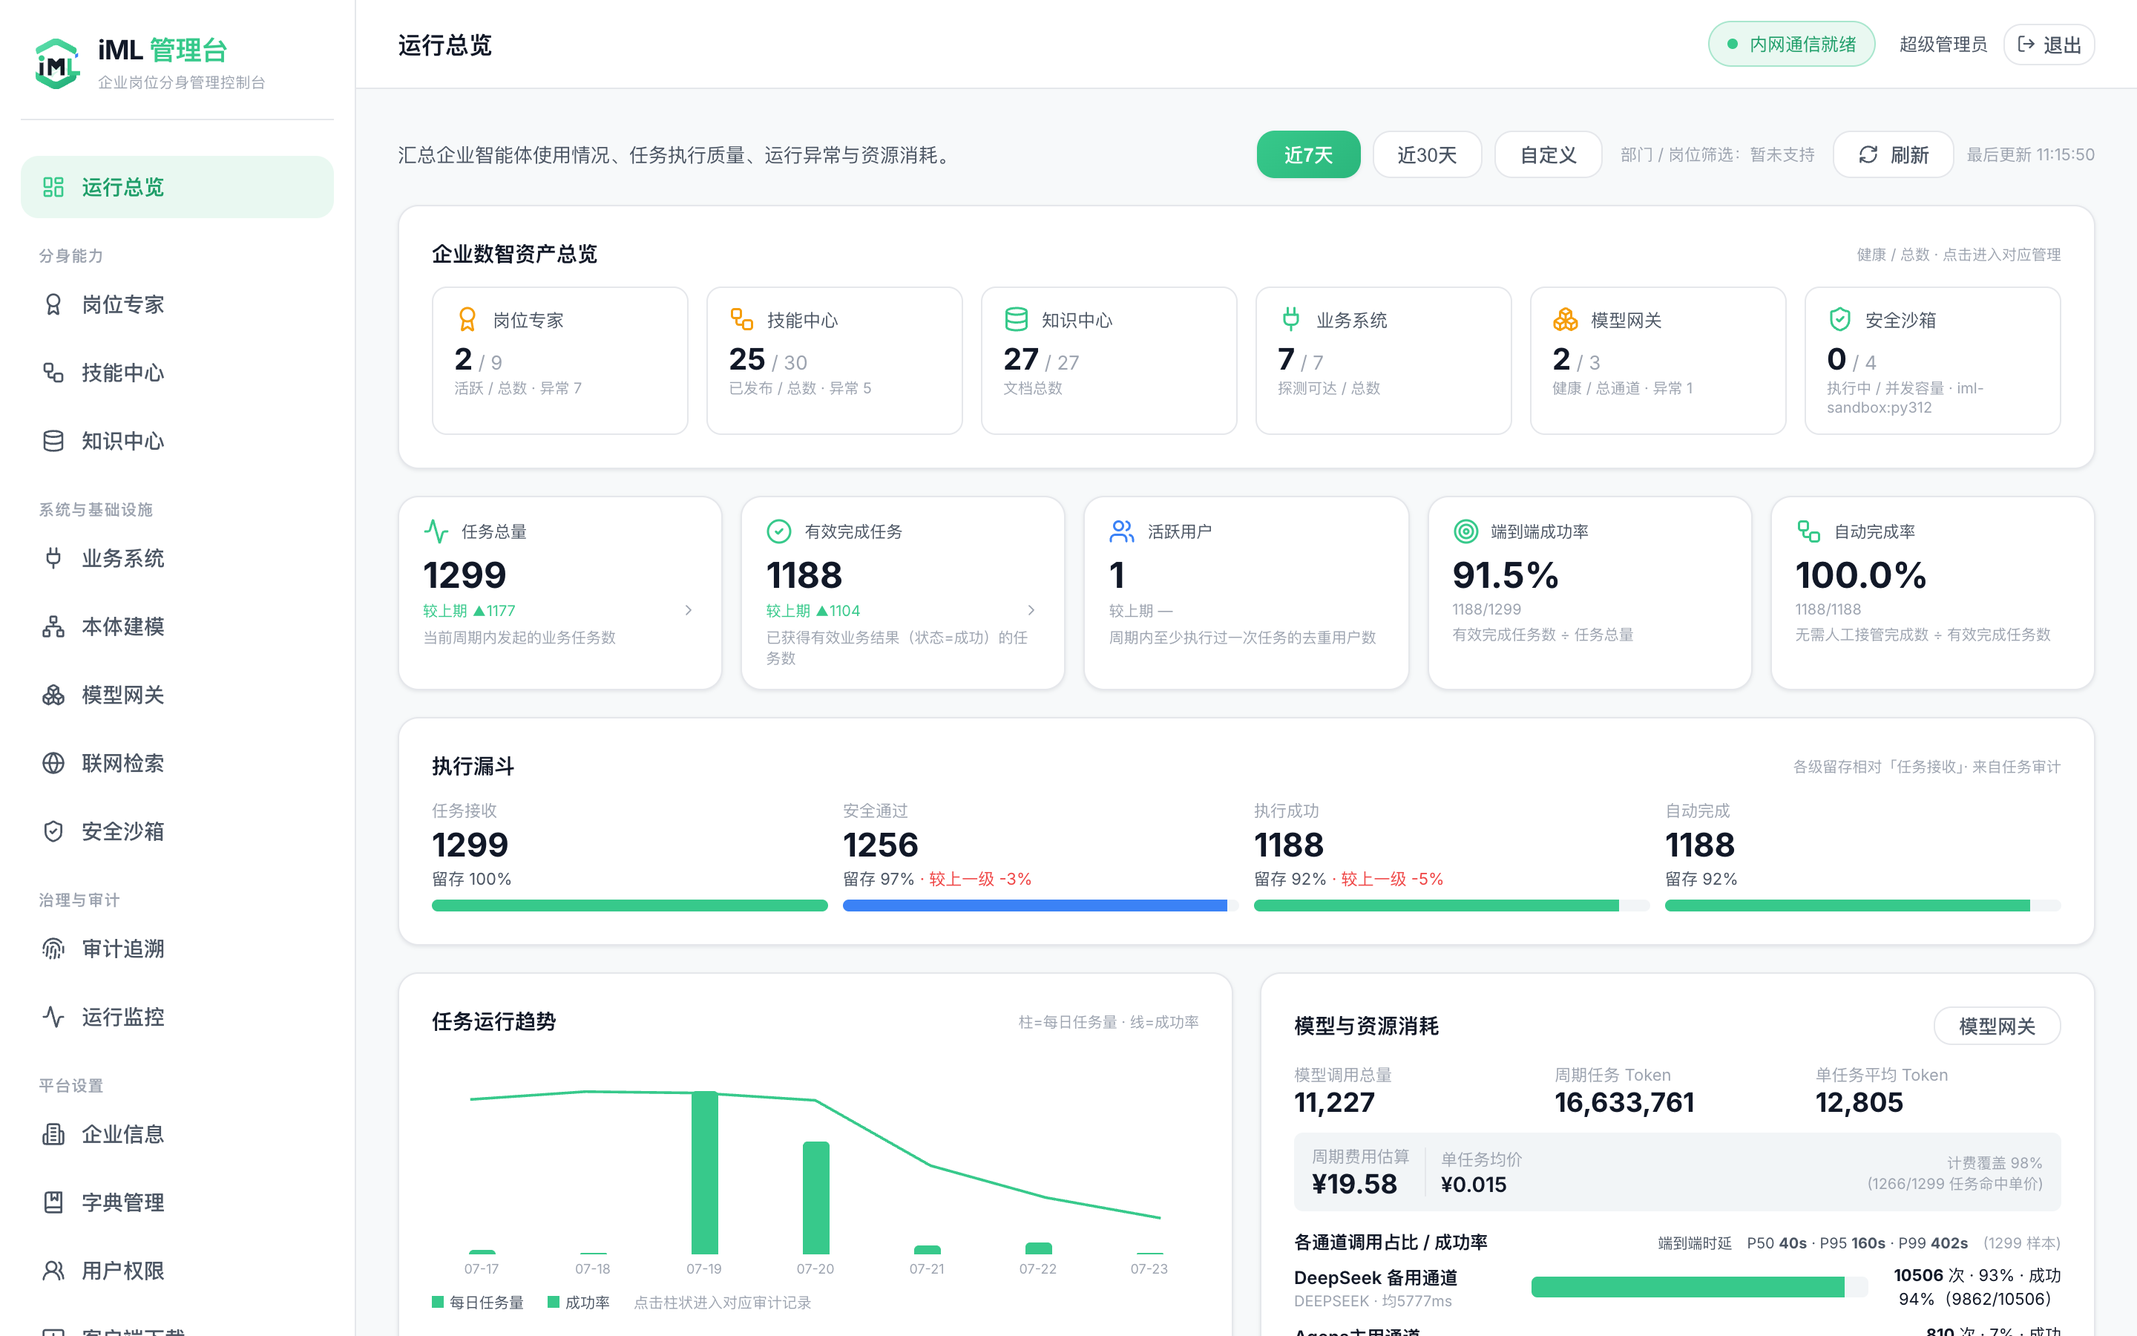
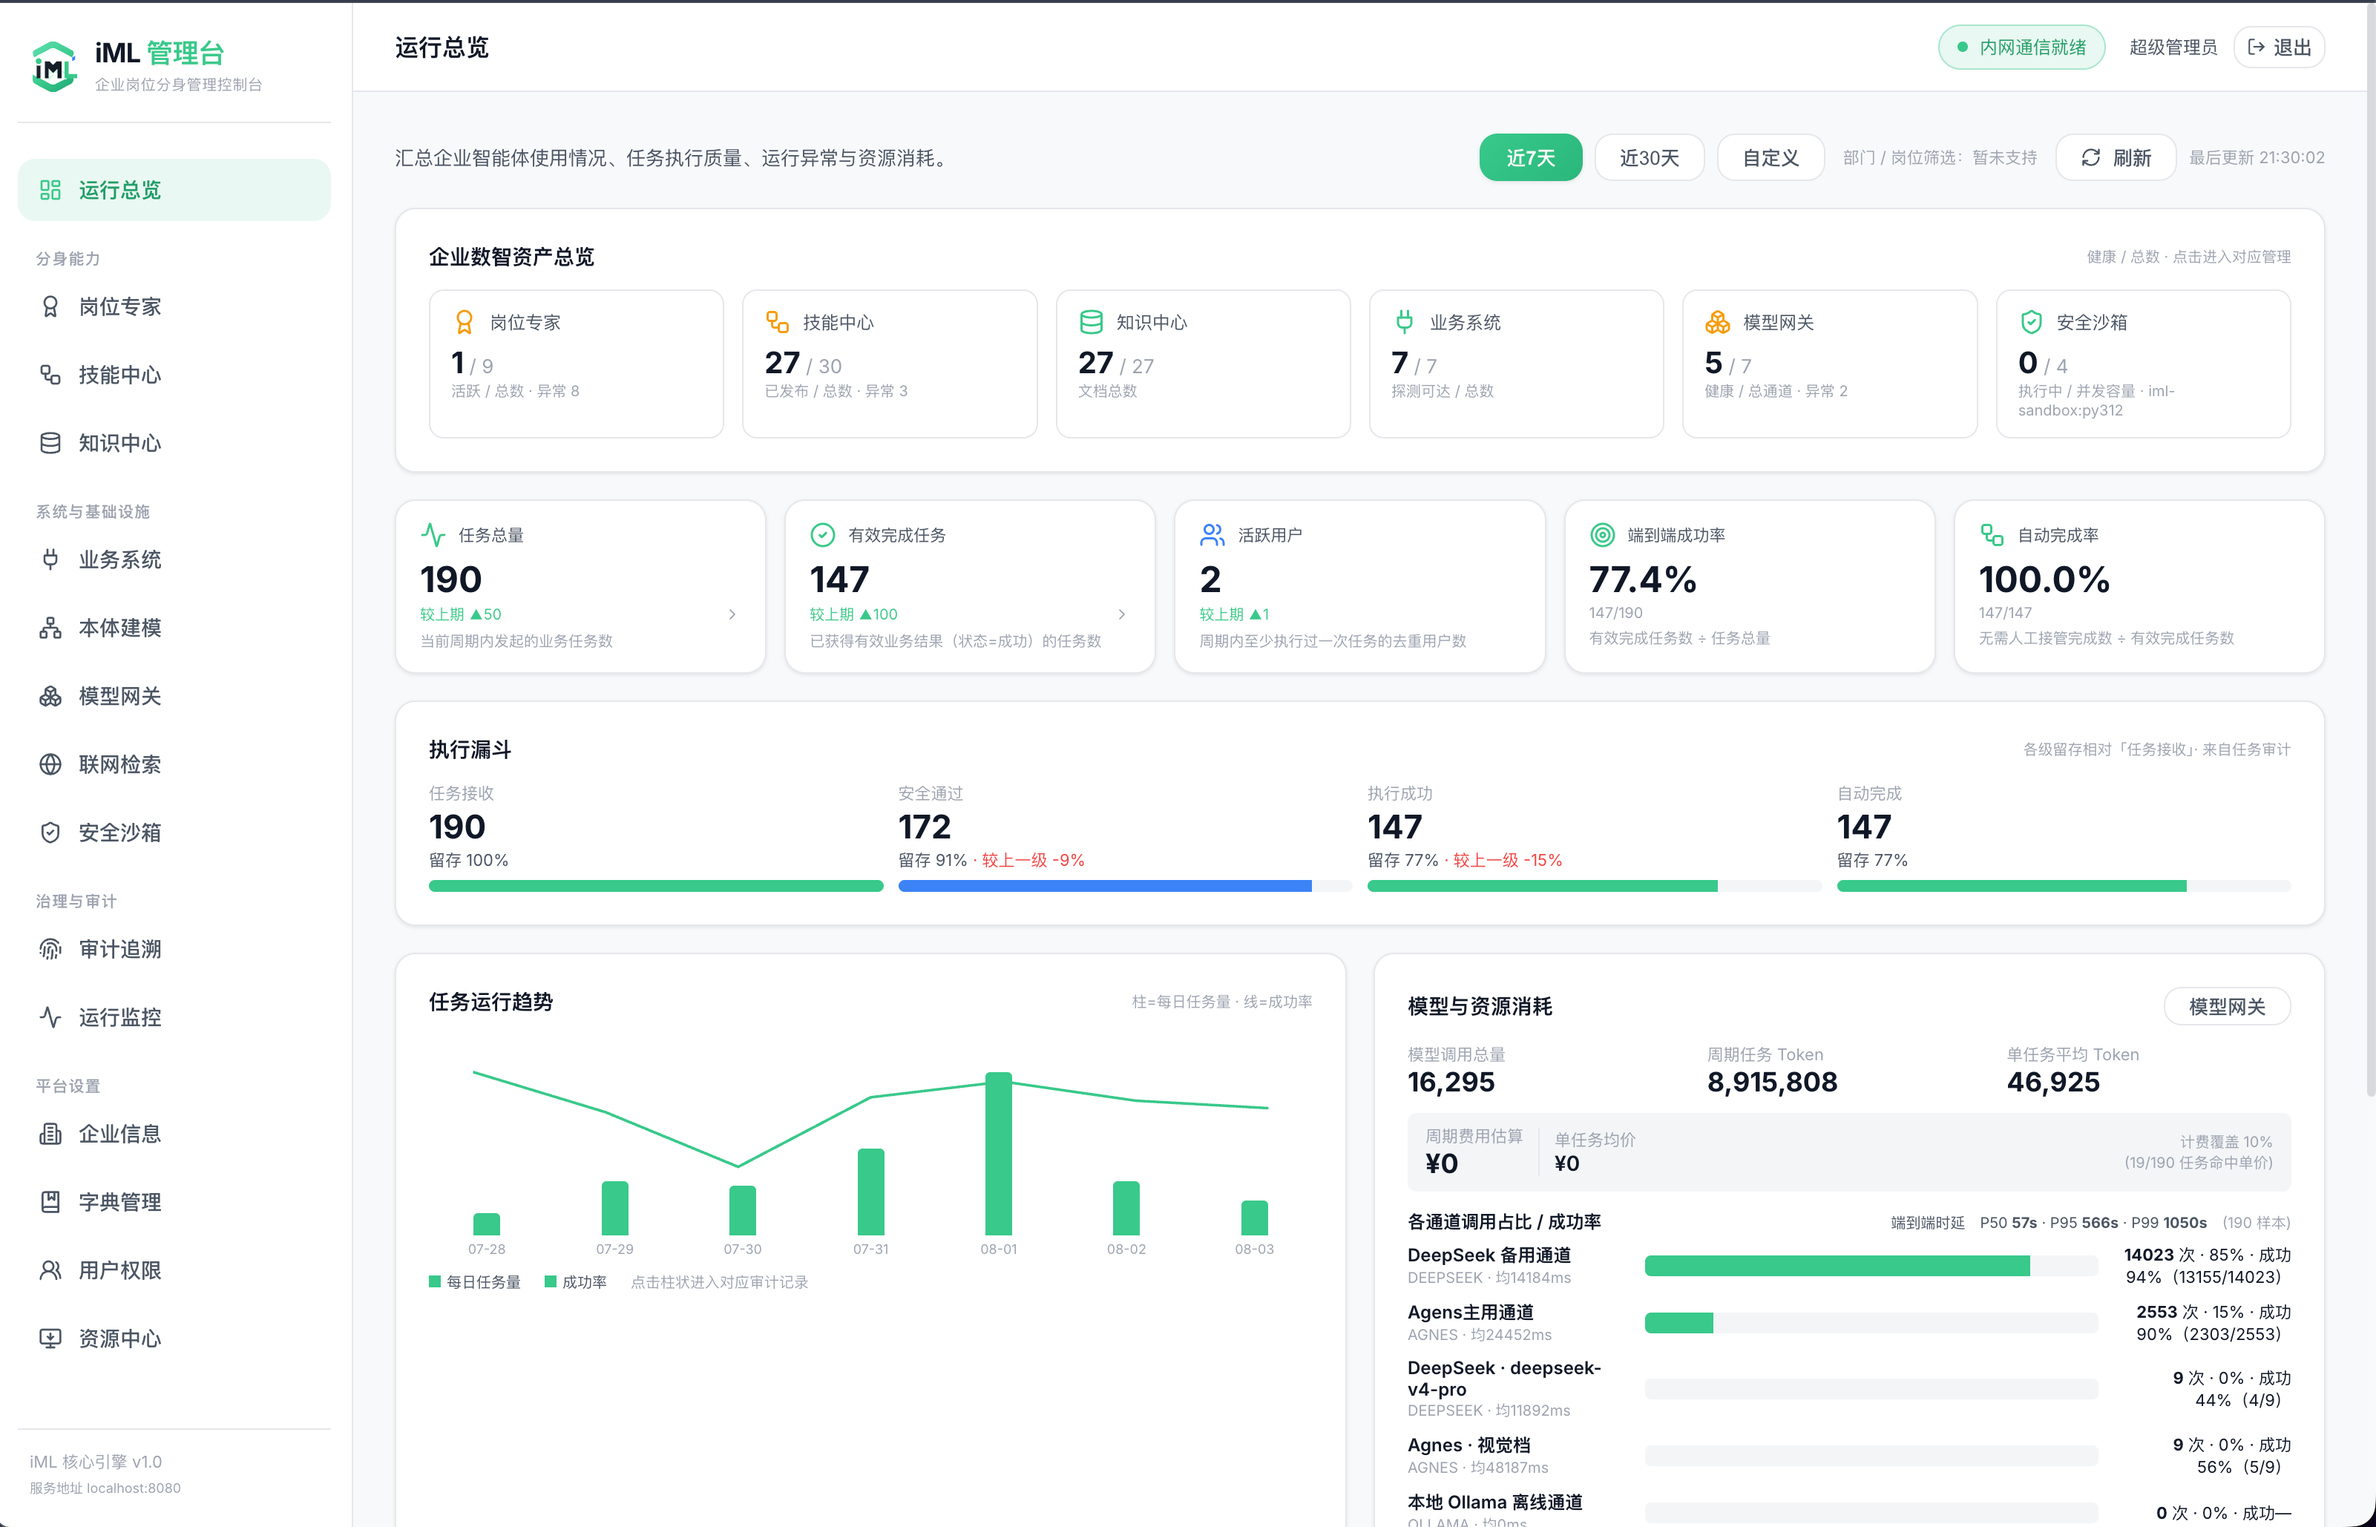
docs(readme): 换用新版截图，界面一览补齐三段
新增 8 张新版截图，其中 2 张替换旧版、6 张是此前完全没展示的能力：

替换
- client-home（新会话首页，带能力卡）取代旧的 client-chat1「与分身对话」
- 02-dashboard 换成新版运行总览（多了执行漏斗与模型消耗）

新增
- client-stock       取数即分析：龙虎榜实时直采，产出带结论的分析而非原始表
- client-multimodal  文生图 / 文生视频，产物落工作空间
- client-install-skill 对话里装技能，安全扫描与待办下一步如实告知
- client-sandbox     本机侧沙箱开关：云端/本机同一镜像可切
- client-voice       语音输入：whisper 按本机配置推荐，音频不上传
- 10-gateway         模型网关：档位路由 + 生成能力通道 + 自配开关

界面一览重排为「员工怎么用 → 本机这一侧管什么 → 管理员怎么治理」三段。
其中「本机这一侧」是新加的一段——沙箱与语音都是员工自己能控的开关，
放在客户端工作流里会打断叙事，放管理台又不属实。

删掉被取代且已无人引用的 client-chat1.png，不留死资产。
21 处图片引用全部存在。

diff --git a/README.md b/README.md
@@ -85,35 +85,59 @@ flowchart LR
 
 ## 界面一览
 
-真实运行截图（演示数据 · Mock OA）。按「**员工怎么用 → 管理员怎么管 → FDE 怎么建**」三段看。
+真实运行截图（演示数据 · Mock OA）。按「**员工怎么用 → 本机这一侧管什么 → 管理员怎么治理**」三段看。
 
-### 一、员工客户端：一条完整工作流
+### 一、员工客户端
 
-对话下需求 → 进 OA 读待办 → 写操作人工确认 → 本体驱动执行 → 产出交付物。
+**打开就是一个能干活的同事** —— 查资料、写文档、跑业务技能、联网检索、录入/审批，直接说需求
 
-**① 与分身对话** —— 领用「销售」岗位分身，自然语言说需求即可
+<img src="assets/screenshots/client-home.png" alt="客户端 · 新会话" width="100%">
 
-<img src="assets/screenshots/client-chat1.png" alt="客户端 · 会话" width="100%">
+一条真实工作流：进 OA 读待办 → 写操作人工确认 → 本体驱动执行。
 
-**② 读存量系统** —— 分身 browse 进企业 OA，点开「统一待办」读出合同审批列表，执行轨迹逐步可查
+**① 读存量系统** —— 分身 browse 进企业 OA，点开「统一待办」读出合同审批列表，执行轨迹逐步可查
 
 <img src="assets/screenshots/client-chat2.png" alt="客户端 · 读 OA 待办" width="100%">
 
-**③ 写操作确认闸** —— 敏感写操作前弹出确认卡，人工点「确认并提交至企业系统」才落笔
+**② 写操作确认闸** —— 敏感写操作前弹出确认卡，人工点「确认并提交至企业系统」才落笔
 
 <img src="assets/screenshots/client-chat3.png" alt="客户端 · 写操作人工确认" width="100%">
 
-**④ 本体驱动执行** —— 消解成 `OA.ApprovalTask.approve`，状态机 `pending → approved`，对象消解与写入值全程留痕
+**③ 本体驱动执行** —— 消解成 `OA.ApprovalTask.approve`，状态机 `pending → approved`，对象消解与写入值全程留痕
 
 <img src="assets/screenshots/client-chat4.png" alt="客户端 · 本体执行" width="100%">
 
-**⑤ 产出交付物** —— 联网检索 + 行情直采，一句话产出 PPT / Word 汇报材料
+再看产出侧：取数分析、文档交付、多模态生成。
+
+**④ 取数即分析** —— 龙虎榜数据实时直采，产出的是**带结论的分析**而不是一张原始表
+
+<img src="assets/screenshots/client-stock.png" alt="客户端 · A股取数分析" width="100%">
+
+**⑤ 生成交付物** —— 联网检索 + 行情直采，一句话产出 PPT / Word 汇报材料
 
 <img src="assets/screenshots/client-chat5.png" alt="客户端 · 生成 PPT/Word" width="100%">
 
-### 二、管理后台：定义、治理、看得见
+**⑥ 多模态生成** —— 文生图与文生视频，产物直接落工作空间（不是给一条几小时后失效的外链）
 
-**运行总览** —— 企业数智资产、任务执行质量、模型与资源消耗一屏尽览
+<img src="assets/screenshots/client-multimodal.png" alt="客户端 · 图片与视频生成" width="100%">
+
+**⑦ 对话里装技能** —— 说一句「装个 xxx」即可；安全扫描结论、落库状态、待办的下一步都如实告诉你
+
+<img src="assets/screenshots/client-install-skill.png" alt="客户端 · 对话安装技能" width="100%">
+
+### 二、本机这一侧：员工自己能控的开关
+
+**安全沙箱** —— 代码跑云端还是本机由你选；本机模式与云端**完全同一镜像**，数据不出机、断网也能跑
+
+<img src="assets/screenshots/client-sandbox.png" alt="客户端 · 安全沙箱" width="100%">
+
+**语音输入** —— 按本机配置推荐 whisper 档位；录音与转写全程只在这台设备上完成，音频绝不上传
+
+<img src="assets/screenshots/client-voice.png" alt="客户端 · 语音输入" width="100%">
+
+### 三、管理后台：定义、治理、看得见
+
+**运行总览** —— 数智资产、执行漏斗（接收→安全通过→执行成功→自动完成）、任务趋势与模型消耗一屏尽览
 
 <img src="assets/screenshots/02-dashboard.png" alt="管理台 · 运行总览" width="100%">
 
@@ -133,6 +157,10 @@ flowchart LR
 
 <img src="assets/screenshots/05-knowledge.png" alt="知识中心" width="100%">
 
+**模型网关** —— 客户端只按**档位**请求（标准/推理/视觉），由中转站决定实际通道；图片/视频生成走独立通道。员工能否自配模型是一个可关的开关
+
+<img src="assets/screenshots/10-gateway.png" alt="管理台 · 模型网关" width="100%">
+
 **安全沙箱** —— 镜像、配额、并发与容器实时监控（只列沙箱容器，不混入常驻基础服务）
 
 <img src="assets/screenshots/08-sandbox.png" alt="安全沙箱监控" width="100%">
@@ -141,9 +169,7 @@ flowchart LR
 
 <img src="assets/screenshots/09-trace.png" alt="审计追溯 · AgentTrace" width="100%">
 
-### 三、业务系统接入
-
-**企业系统登记** —— 只登记地址与可达状态，不收密码；登录态留在员工本机的受管分区
+**业务系统接入** —— 只登记地址与可达状态，不收密码；登录态留在员工本机的受管分区
 
 <img src="assets/screenshots/07-systems.png" alt="业务系统接入" width="100%">
 
